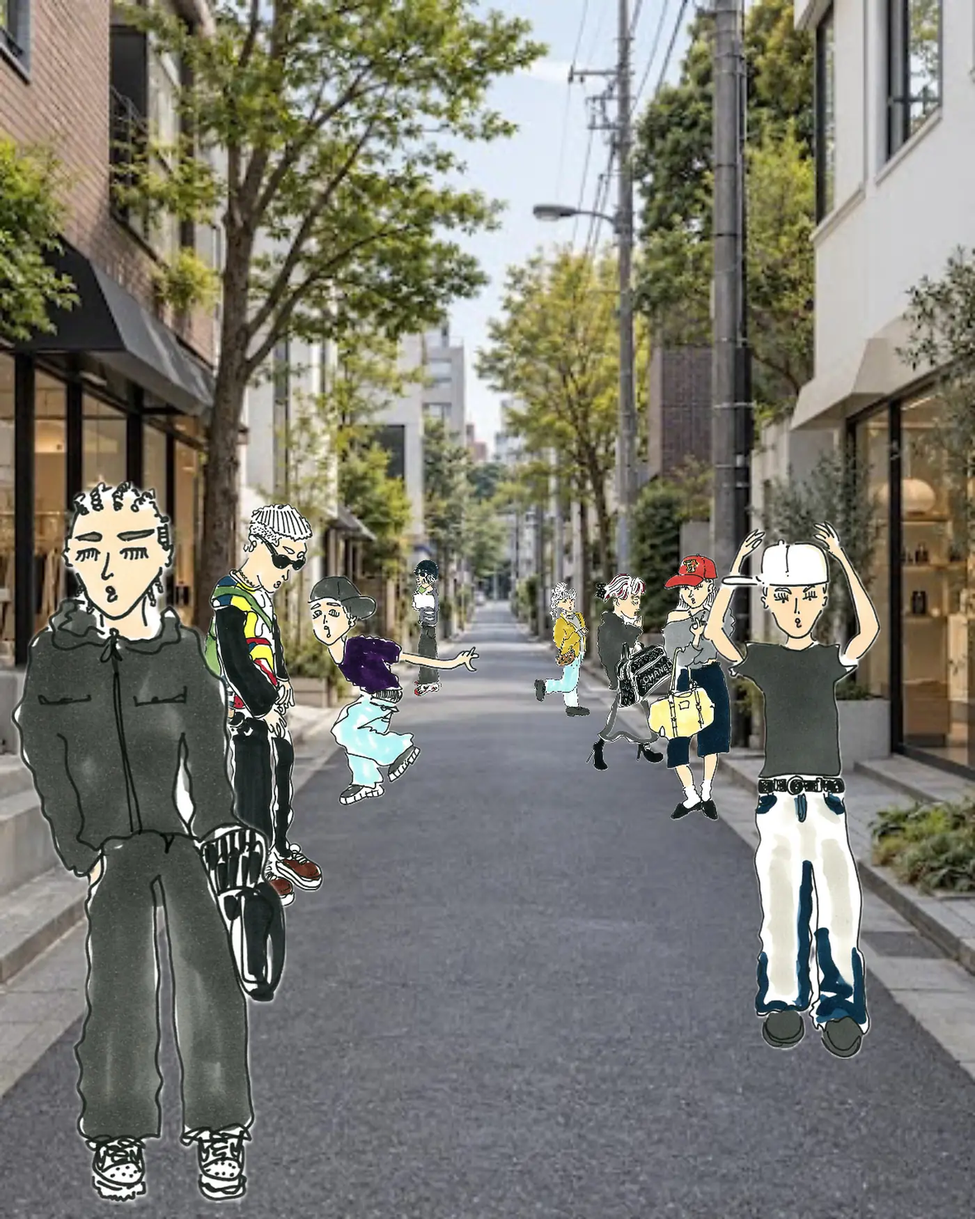
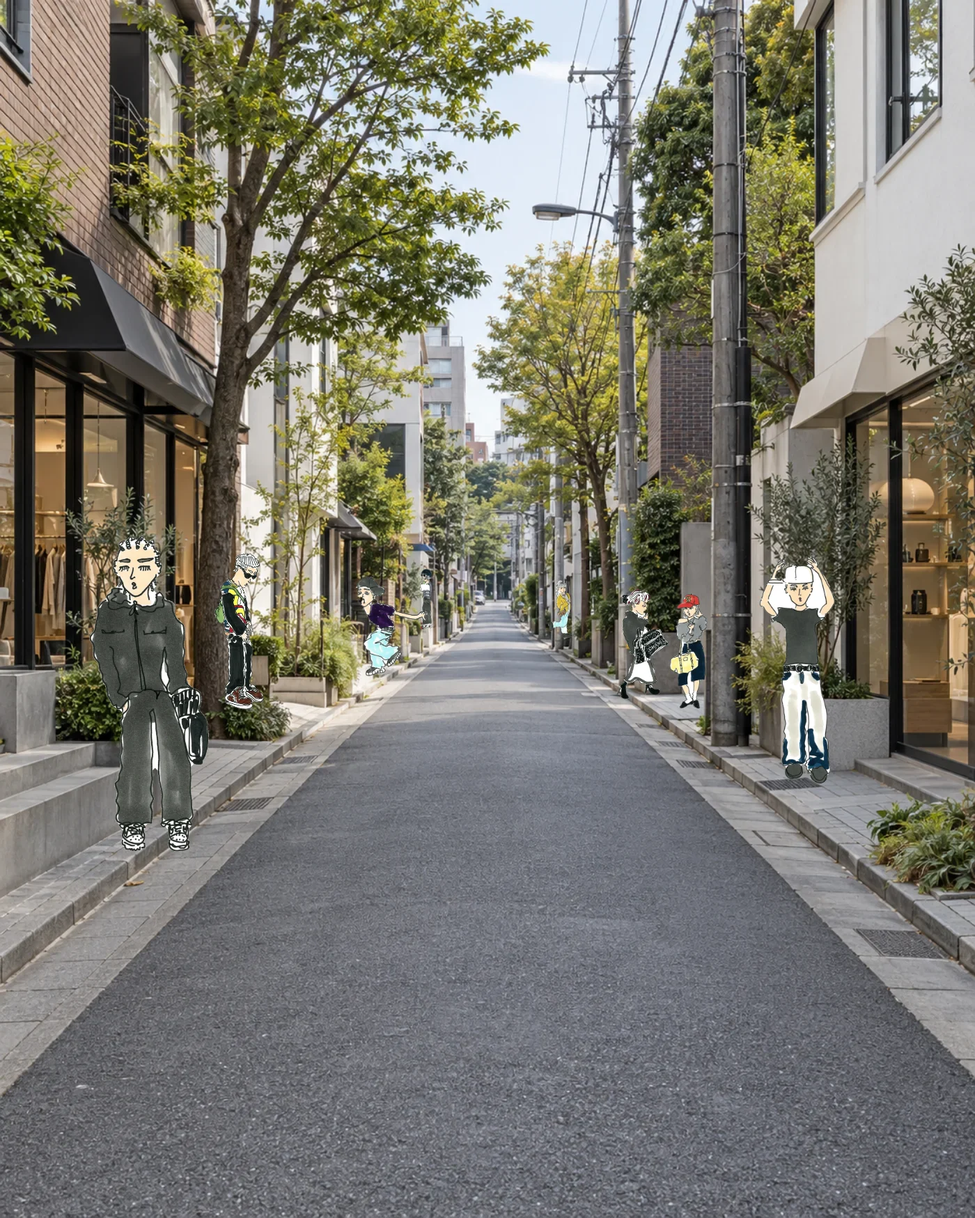
街：並びは見本のまま、元の写真と元の絵から焼き直す
実機で出た3つ（背景が甘い／スマホで人が切れる／PCが寄りすぎ）は
どれも、焼き固めた1枚の拡大画像を画面いっぱいに敷いていたことが原因。
並びはいただいた画像のまま、素材から焼き直して画面ごとに分けた。

- 背景：元の写真（人なし）から。背景のきめ 5.55 → 7.89
- スマホ：横の位置を見える帯（0.211〜0.789）の中へ写し直し。
  8人中7人が100%、人①が81%映る。切れて消える人はいない
- PC：縦が 0.250〜0.750 しか映らないので、目の高さを軸に
  0.441倍へ縮めて引いて見せる。脚も切れない

?v=8 に上げて読み直させる。

diff --git a/index.html b/index.html
@@ -417,7 +417,7 @@ addEventListener('load',function(){ clearTimeout(t); setTimeout(go,3500); });
   var layers=[].slice.call(g.querySelectorAll('.street i'));
   var small=matchMedia('(max-width:760px)').matches;
   /* ?v は焼き直した街を確実に読ませるための番号。焼き直したら上げる */
-  function src(n){ return 'naoto-assets/street/'+n+(small?'@700w':'')+'.webp?v=7'; }
+  function src(n){ return 'naoto-assets/street/'+n+(small?'@700w':'')+'.webp?v=8'; }
   function load(i){
     var el=layers[i];
     if(!el||el.dataset.loaded) return;
